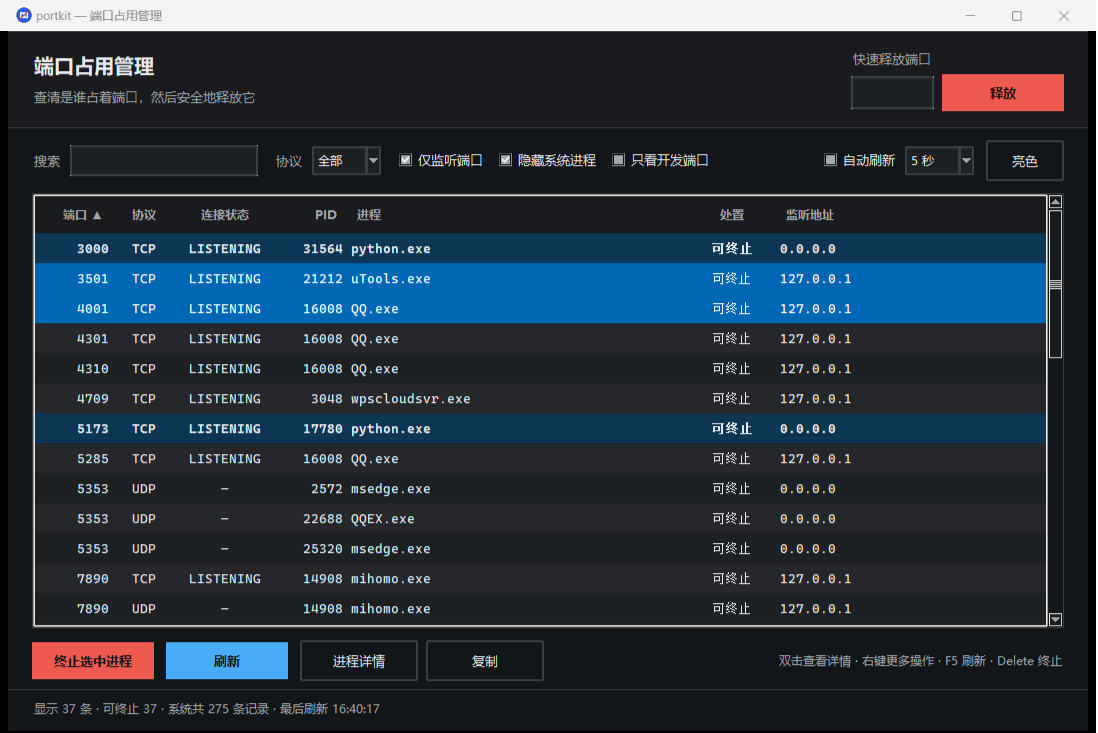
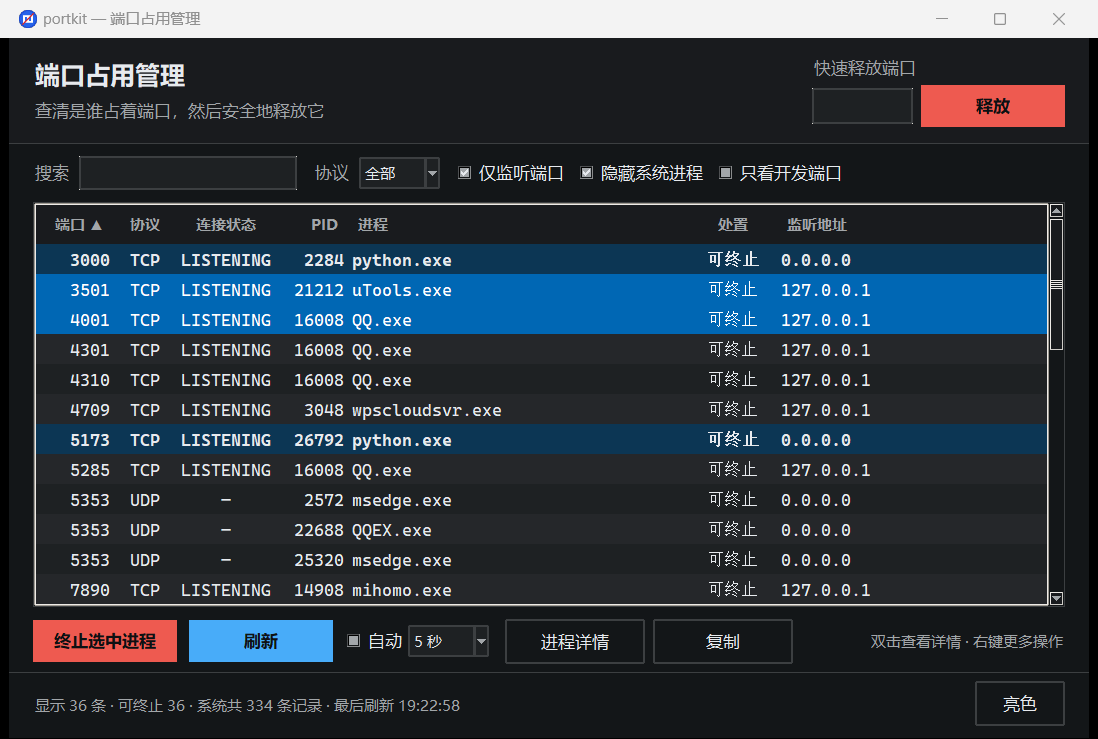
fix(ui): 筛选栏在 DPI 感知下挤掉「自动刷新」文字
v1.2.0 的实际缺陷：筛选栏塞了搜索、协议、三个复选框、自动刷新和主题按钮，
打包成 exe 后 DPI 感知开启、中文字体渲染变宽，所需宽度 1169px 超过窗口
1080px，pack 压缩了最后放入的 auto_refresh_area（182px -> 101px），
「自动刷新」四个字直接消失，只剩一个孤立勾选框。

根因不只是空间不够，而是分类不当：自动刷新修饰的是刷新行为、主题属于环境
设置，两者都不是「筛选条件」。按语义重新归置：

- 自动刷新移到操作栏，紧邻「刷新」按钮，标签缩短为「自动」
- 主题切换移到状态栏右侧，它是低频环境设置，视觉层级最低
- 筛选栏只留筛选条件，恢复宽松

新增 LayoutFitTests：在 940（最小宽度）与 1080 下开启 DPI 感知建窗，
递归检查每个控件实际宽度不小于请求宽度。这类问题在开发机上不一定复现
（取决于 DPI 缩放与字体），靠肉眼看截图不可靠。

Changed region(s): [[0.0, 0.0, 1.0, 1.0]]

diff --git a/portkit_gui.py b/portkit_gui.py
@@ -600,11 +600,13 @@ class PortManagerApplication:
 
         ttk.Frame(self.root, style="Divider.TFrame", height=1).pack(fill="x")
 
+        # 筛选栏只放「筛选条件」。自动刷新属于刷新行为、主题属于环境设置，
+        # 分别归到操作栏与状态栏——这样每一栏都不会因控件过多而挤掉文字。
         filter_bar = ttk.Frame(self.root, padding=(SPACE_XL, SPACE_MD, SPACE_XL, SPACE_MD))
         filter_bar.pack(fill="x")
 
         ttk.Label(filter_bar, text="搜索", style="FieldLabel.TLabel").pack(side="left")
-        search_entry = ttk.Entry(filter_bar, textvariable=self.search_keyword, width=24)
+        search_entry = ttk.Entry(filter_bar, textvariable=self.search_keyword, width=22)
         search_entry.pack(side="left", padx=(SPACE_SM, SPACE_LG))
         self.search_keyword.trace_add("write", lambda *_: self._render_table())
 
@@ -628,32 +630,6 @@ class PortManagerApplication:
         self._create_checkbutton(
             filter_bar, "只看开发端口", self.show_dev_ports_only, self._render_table
         ).pack(side="left")
-
-        # 右侧放低频的环境类开关：主题、自动刷新。
-        self.theme_button = ttk.Button(
-            filter_bar,
-            text="暗色",
-            style="Secondary.TButton",
-            width=6,
-            command=self.toggle_theme,
-        )
-        self.theme_button.pack(side="right", padx=(SPACE_MD, 0))
-        self._update_theme_button_label()
-
-        auto_refresh_area = ttk.Frame(filter_bar)
-        auto_refresh_area.pack(side="right")
-        interval_combobox = ttk.Combobox(
-            auto_refresh_area,
-            textvariable=self.auto_refresh_interval_label,
-            values=list(AUTO_REFRESH_INTERVAL_CHOICES),
-            width=6,
-            state="readonly",
-        )
-        interval_combobox.pack(side="right", padx=(SPACE_SM, 0))
-        interval_combobox.bind("<<ComboboxSelected>>", lambda event: self._reschedule_auto_refresh())
-        self._create_checkbutton(
-            auto_refresh_area, "自动刷新", self.auto_refresh_enabled, self._reschedule_auto_refresh
-        ).pack(side="right")
 
     def _build_table(self) -> None:
         table_container = ttk.Frame(self.root, padding=(SPACE_XL, 0))
@@ -741,6 +717,9 @@ class PortManagerApplication:
         按钮的视觉重量按破坏性排序：终止（实心红）> 刷新（实心蓝）> 详情/复制（描边）。
         原先四个按钮里两个是实心高饱和色，「刷新」和「终止」几乎等价，
         对不可撤销的操作来说过于危险。
+
+        「自动刷新」紧跟在「刷新」右边——它修饰的是刷新行为，
+        放在筛选栏里既不符合语义，也会因控件过多挤掉文字。
         """
         action_bar = ttk.Frame(self.root, padding=(SPACE_XL, SPACE_MD, SPACE_XL, SPACE_SM))
         action_bar.pack(fill="x")
@@ -758,13 +737,28 @@ class PortManagerApplication:
         )
         self.refresh_button.pack(side="left", padx=(SPACE_MD, 0))
 
+        auto_refresh_area = ttk.Frame(action_bar)
+        auto_refresh_area.pack(side="left", padx=(SPACE_MD, 0))
+        self._create_checkbutton(
+            auto_refresh_area, "自动", self.auto_refresh_enabled, self._reschedule_auto_refresh
+        ).pack(side="left")
+        interval_combobox = ttk.Combobox(
+            auto_refresh_area,
+            textvariable=self.auto_refresh_interval_label,
+            values=list(AUTO_REFRESH_INTERVAL_CHOICES),
+            width=6,
+            state="readonly",
+        )
+        interval_combobox.pack(side="left", padx=(SPACE_XS, 0))
+        interval_combobox.bind("<<ComboboxSelected>>", lambda event: self._reschedule_auto_refresh())
+
         self.details_button = ttk.Button(
             action_bar,
             text="进程详情",
             style="Secondary.TButton",
             command=self.show_selected_process_details,
         )
-        self.details_button.pack(side="left", padx=(SPACE_MD, 0))
+        self.details_button.pack(side="left", padx=(SPACE_LG, 0))
 
         self.copy_button = ttk.Button(
             action_bar, text="复制", style="Secondary.TButton", command=self.copy_selected_rows
@@ -773,17 +767,35 @@ class PortManagerApplication:
 
         ttk.Label(
             action_bar,
-            text="双击查看详情 · 右键更多操作 · F5 刷新 · Delete 终止",
+            text="双击查看详情 · 右键更多操作",
             style="Status.TLabel",
         ).pack(side="right")
 
         self._update_action_button_states()
 
     def _build_status_bar(self) -> None:
+        """状态栏：左侧统计，右侧放主题切换。
+
+        主题属于低频的环境设置，放在视觉层级最低的位置，
+        不与筛选条件和操作按钮抢注意力。
+        """
         ttk.Frame(self.root, style="Divider.TFrame", height=1).pack(fill="x")
         status_bar = ttk.Frame(self.root, padding=(SPACE_XL, SPACE_SM, SPACE_XL, SPACE_MD))
         status_bar.pack(fill="x")
-        ttk.Label(status_bar, textvariable=self.status_message, style="Status.TLabel").pack(side="left")
+
+        self.theme_button = ttk.Button(
+            status_bar,
+            text="暗色",
+            style="Secondary.TButton",
+            width=6,
+            command=self.toggle_theme,
+        )
+        self.theme_button.pack(side="right")
+        self._update_theme_button_label()
+
+        ttk.Label(status_bar, textvariable=self.status_message, style="Status.TLabel").pack(
+            side="left", pady=(SPACE_XS, 0)
+        )
 
     def _bind_shortcuts(self) -> None:
         self.root.bind("<F5>", lambda event: self.request_refresh())

diff --git a/tests/smoke_test.py b/tests/smoke_test.py
@@ -541,5 +541,77 @@ class GraphicalInterfaceTests(unittest.TestCase):
         self.assertIsNone(self.application.scheduled_auto_refresh_id)
 
 
+@unittest.skipUnless(graphical_display_is_available(), "当前环境没有可用的图形显示")
+class LayoutFitTests(unittest.TestCase):
+    """回归测试：控件不能因为空间不足而被挤掉文字。
+
+    起因是一个真实缺陷：筛选栏里塞了搜索、协议、三个复选框、自动刷新和主题按钮，
+    在 DPI 感知开启（打包成 exe 后的实际情况）时中文字体渲染变宽，
+    所需宽度超过窗口，`pack` 便压缩了最后放入的元素，
+    「自动刷新」四个字直接消失，只剩一个孤立的勾选框。
+
+    这类问题在开发机上不一定复现（取决于 DPI 缩放与字体），
+    所以这里显式检查每个控件拿到的宽度不小于它请求的宽度。
+    """
+
+    @classmethod
+    def setUpClass(cls):
+        import portkit_gui
+
+        cls.portkit_gui = portkit_gui
+
+    def _find_squeezed_widgets(self, container) -> list[str]:
+        """递归找出实际宽度小于请求宽度的控件。"""
+        squeezed: list[str] = []
+        for child in container.winfo_children():
+            requested = child.winfo_reqwidth()
+            actual = child.winfo_width()
+            # 容差 1px 吸收取整误差；宽度为 1 说明还没被布局，跳过。
+            if actual > 1 and requested - actual > 1:
+                label = ""
+                try:
+                    label = str(child.cget("text"))
+                except Exception:
+                    pass
+                squeezed.append(
+                    f"{child.winfo_class()}(req={requested}, actual={actual}, text={label!r})"
+                )
+            squeezed.extend(self._find_squeezed_widgets(child))
+        return squeezed
+
+    def _assert_layout_fits_at_width(self, width: int, height: int = 620) -> None:
+        import tkinter as tk
+
+        # 与打包后的 exe 保持一致：先开 DPI 感知，中文字体才会按真实尺寸渲染。
+        self.portkit_gui.enable_high_dpi_awareness()
+
+        root = tk.Tk()
+        application = self.portkit_gui.PortManagerApplication(root)
+        try:
+            root.geometry(f"{width}x{height}")
+            # 多轮 update 让 pack 完成尺寸协商。
+            deadline = time.monotonic() + 8
+            while time.monotonic() < deadline:
+                root.update()
+                time.sleep(0.03)
+
+            squeezed = self._find_squeezed_widgets(root)
+            self.assertEqual(
+                squeezed,
+                [],
+                f"窗口宽 {width}px 时下列控件被挤压，文字会显示不全：\n  "
+                + "\n  ".join(squeezed),
+            )
+        finally:
+            application.handle_window_close()
+
+    def test_layout_fits_at_minimum_window_width(self):
+        """最小窗口尺寸是用户能拖到的极限，这里必须不挤。"""
+        self._assert_layout_fits_at_width(940)
+
+    def test_layout_fits_at_default_window_width(self):
+        self._assert_layout_fits_at_width(1080)
+
+
 if __name__ == "__main__":
     unittest.main(verbosity=2)
